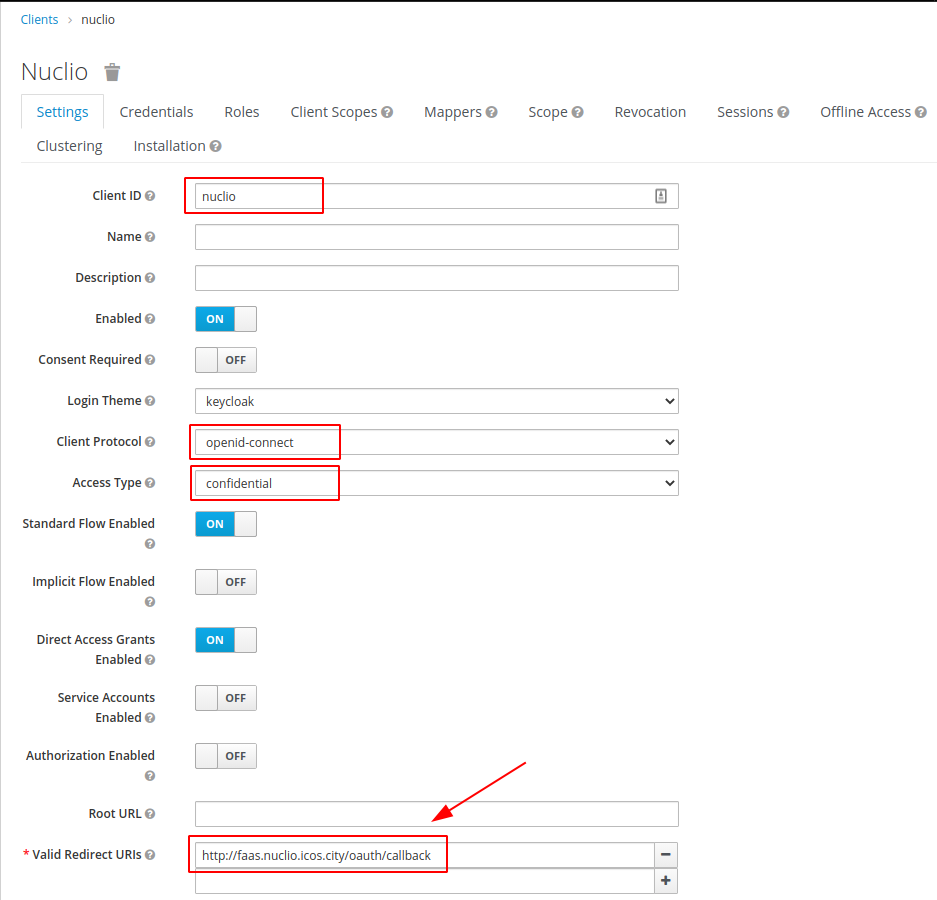
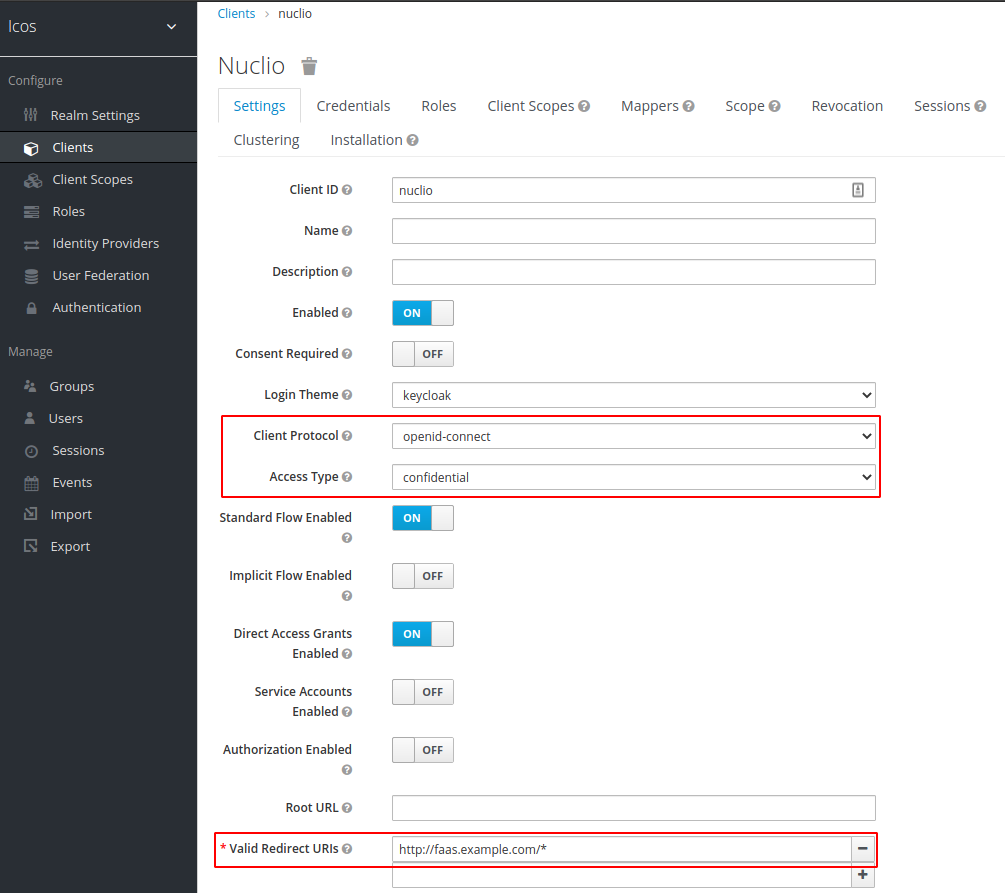
fix(post-devops): 更新通过gatekeeper设置nuclio认证和鉴权的博客。

diff --git a/source/_posts/devops/2021-01-25-Keycloak-配置gatekeeper保护没有认证授权的应用功能.md b/source/_posts/devops/2021-01-25-Keycloak-配置gatekeeper保护没有认证授权的应用功能.md
@@ -10,79 +10,130 @@ comments: true
 ---
 
 # 重要
-虽然gatekeeper停止开发，转向`oauth2proxy`。但由于`oauth2proxy`功能太弱。不适用此场景。继续选用gatekeeper配置。
+虽然louketo-proxy停止开发，转向`oauth2proxy`。但由于`oauth2proxy`功能太弱。不适用此场景。继续选用louketo-proxy实现。
 
 部署配置， 一共有三个组件（以nuclio举例）：
-1. keycloak:   提供oauth2的认证源。在此处配置client、redirect_url、scope等
-2. gatekeeper: 作为proxy，代理所有走向`nuclio`的流量。与keycloak集成，没有权限的请求将被proxy截断。
-3. nuclio:     没有登录、授权的应用（一种faas平台）。
+1. keycloak:    提供oauth2的认证源。在此处配置client、redirect_url、scope等
+2. louketo-proxy: 作为proxy，代理所有走向`nuclio`的流量。与keycloak集成，没有权限的请求将被`proxy`拦截。
+3. nuclio:        没有登录、授权的应用（一种faas平台）。
 
 # 环境说明
-keycloak: 
+keycloak:  10.0.2
 
-gatekeeper: 
+louketo-proxy: v2.3.0
 
 nuclio: 1.5.12
 
 # 安装
 
-> gatekeeper启动的ingress地址对用户开放，名字应为proxy后面服务的真实地址，如代理proxy服务，则需设置为`faas.icos.city`。
+> louketo-proxy启动的ingress地址对用户开放，名字应为proxy后面服务的真实地址，如代理proxy服务，则需设置为`faas.icos.city`。
 
-## 1. 配置gatekeeper
+## 1. 配置louketo-proxy
 
 - `client-id`: 配置为keycloak服务中创建的`client-name`
+
 - `client-secret`: 配置为keycloak服务中创建的`client`, 点击`credentials`获取。
+
 - `discovery-url`: 注意修改keycloak地址和realm名。`<keycloak-address>/auth/realms/<realm-name>`
-- `redirection-url`: 认证完成后，返回的访问地址，即`gate-keeper`的ingress地址。注意，不带'oauth/callback'
-- `upstream-url`: gatekeeper 后面的真实应用地址。
+
+- `redirection-url`: 认证完成后，返回的访问地址，即`louketo-proxy`的ingress地址。注意，不带`oauth/callback`。
+
+- `upstream-url`: louketo-proxy 后面的真实应用地址。
+
 - `enable-refresh-tokens`: 允许refresh-token刷新token。
-   > 用户访问应用，会重定向到Keycloak。 那里获得授权代码。 前端`gatekeeper`将此授权代码交换为`access token`、`refresh token`，
+  
+   > 用户访问应用，会重定向到Keycloak。 那里获得授权代码。 前端`louketo-proxy`将此授权代码交换为`access token`、`refresh token`，
    > 这些token放在前端的cookie中。 当使用过期的`access token`调用后端时，`refresh token`将被解密并用于获取新的`access token`。
    > `refresh token`可以过期或无效。 当返回401时，前端应刷新页面，以便将用户重定向到Keycloak。
    > 更安全的做法是将token存储在redis中, 而不是存储在前端Cookie中。
 
 - `skip-upstream-tls-verify`: 跳过证书校验
+
 - `skip-openid-provider-tls-verify`: 跳过证书校验
 
-> 仍存在以下问题： 1. role=admin未生效，认证通过的都能访问；
-gatekeeper启动命令如下：
-```bash
-/usr/local/bin/louketo-proxy  \
---client-id=nuclio \
---client-secret=0f52c6a6-ceb7-40cc-8a02-77909bf355c4 \
---discovery-url=https://sso.icos.city/auth/realms/icos \
---enable-default-deny=true \
---secure-cookie=false \
---encryption-key=AgXa7xRcoClDEU0ZDSH4X0XhL5Qy2Z2j \
---enable-json-logging=true \
---enable-logging=true \
---enable-request-id=true \
---enable-security-filter=true \
---http-only-cookie=false \
---enable-refresh-tokens=true \
---listen=0.0.0.0:8085 \
---preserve-host=true \
---enable-logging  \
---redirection-url=http://faas.icos.city \
---upstream-url=http://nuclio-dashboard:8070 \
---skip-openid-provider-tls-verify \
---skip-upstream-tls-verify \
---resources=uri=/*|methods=GET,POST,DELETE,PUT,HEAD|roles=nuclio:admin
+> proxy的chart  `value.yaml`如下：([proxy-chart文件](./images/charts/nuclio-proxy-1.0.0.tgz))
+
+```yaml
+#【----------------全局变量--------------------】
+global:
+  #  # 镜像仓库名称
+  imageRepositoryName: reg.chebai.org
+
+#【----------------镜像配置--------------------】
+# 镜像
+imageRepository: paas/louketo-proxy
+  #版本要求3位数,不写默认从.Chart.appVersion拿
+#imageTag: 5.6.10
+  # 拉取镜像策略
+imagePullPolicy: Always
+
+#容器启动命令和参数
+containersCommand: {}
+containersArgs: '[
+  "--client-id=<client-id>",
+  "--client-secret=<client-secret>",
+  "--discovery-url=<keycloak-address>/auth/realms/<realm-name>",
+  "--enable-default-deny=true",
+  "--secure-cookie=false",
+  "--encryption-key=AgXa7xRcoClDEU0ZDSH4X0XhL5Qy2Z2j",
+  "--enable-json-logging=true",
+  "--enable-logging=true",
+  "--enable-request-id=true",
+  "--enable-security-filter=true",
+  "--http-only-cookie=true",
+  "--listen=0.0.0.0:8080",
+  "--preserve-host=true",
+  "--enable-logging",
+  "--redirection-url=http://faas.example.com",
+  "--upstream-url=http://nuclio-dashboard:8070",
+  "--skip-openid-provider-tls-verify",
+  "--skip-upstream-tls-verify",
+  "--resources=uri=/*|methods=GET,POST,DELETE,PUT,HEAD|roles=nuclio:viewer"
+  ]'
+
+#【----------------服务配置--------------------】
+#是否启动服务
+serviceEnabled: true
+  # 服务映射端口类型ClusterIP、NodePort
+serviceType: NodePort
+  # 服务
+serviceName: nuclio-proxy
+servicePorts:
+# 容器内端口
+- port: 8080
+  protocol: "TCP"
+
+ingressEnabled: true
+ingressAnnotations:
+  kubernetes.io/ingress.class: nginx
+
+ingressAddns: false
+
+ingressHosts:
+- host: faas
+  domain: example.com
+  paths:
+  - path: /
+    servicePort: 8080
+
 ```
 
 ## 2. 配置keycloak
+
 1. 配置client
 
     <img src="images/post-image/gatekeeper-keycloakclient-config.png" width="60%">
 
 2. 配置Scope
+   
+    > 也可以直接通过Mappers配置audience,  ClientScope只是多封装了一层，好处是便于多个client共用。
     
     2.1 选择`icos`realm -- 点击`Client Scopes` -- 点击`Settings`
     
     - `name: ` 设置名字为`nuclio-service`
-    - `Protocol: ` 设置名字为`openid-connect`
+- `Protocol: ` 设置名字为`openid-connect`
     <img src="images/post-image/gatekeeper-ClientScope-1.png" width="60%">
-
+    
     2.2 在`Client Scope`页面 -- 点击`Mappers`
     
     - `name: ` 设置名字为`nuclio-audience`
@@ -96,10 +147,16 @@ gatekeeper启动命令如下：
     
     在`Available Client Scopes` 中选择刚创建的`nuclio-service` -- 点击`Add selected`
     
-    <img src="images/post-image/gatekeeper-ClientScope-3.png" width="60%">
-    
+
+<img src="images/post-image/gatekeeper-ClientScope-3.png" width="60%">
+
+   
 
 3. 创建用户
+
+并将
+
+
 
 ## 3. 部署nuclio
 
@@ -109,26 +166,33 @@ gatekeeper启动命令如下：
 # 使用
 
 # 遇到问题
-1. redirect_url: keycloak中需要设置为`http://<nuclio.acme.com>/oauth/callback`, 而gatekeeper启动时配置为`http://<nuclio.acme.com>/`。
-一直将keycloak中`redirect_url`设置缺少`oauth/callback`,导致出现以下报错（keycloak端报错）：
-```bash
-error redirect_url
-```
+1. `error redirect_url`报错： 
 
+  > keycloak-client配置`redirect_url` 缺少`oauth/callback`,导致出现报错（keycloak端报错）
+
+  - keycloak中需要设置为`http://<nuclio.acme.com>/oauth/callback`（也可以直接使用通配符，配置为`http://<nuclio.acme.com>/*`）
+  - louketo-proxy启动时配置为`http://<nuclio.acme.com>/`。
 2. 登录成功，但由于未配置`audience`字段aud，claim中的字段无法对应
-导致如下报错(gatekeeper 端报错)
+导致如下报错(louketo-proxy 端报错)
 ```bash
  'aud' claim and 'client_id' do not match
 ```
 
-3. keycloak服务端，注销session，对gatekeeper无效。过期时间在生成accessToken时被服务端根据配置生成（服务端默认5分钟过期），并保存在cookie中。
-在无refreshToken干预的条件下，只有等过期时间（默认5分钟）结束才会过期，返回keycloak登录页面。
+3. 使用镜像supervisor启动，导致针对role的鉴权一直失败。
 
-4. nuclio会在请求header中`x-nuclio-project-namespace: <namespace: eg. nuclio>`,来区分不同命名空间下的function, 后期可以结合`User Group`，
-来进行租户划分和授权管理。
+  换成`reg.chebai.org/paas/louketo-proxy:v1.0.0`之后一切正常。
+
+4. keycloak服务端，注销session，需要重新无痕模式打开新的窗口生效。
+
+  过期时间在生成accessToken时被服务端根据配置生成（服务端默认5分钟过期），并保存在cookie中。
+  在无refreshToken干预的条件下，只有等过期时间（默认5分钟）结束才会过期，返回keycloak登录页面。
+
+5. nuclio会在请求header中`x-nuclio-project-namespace: <namespace: eg. nuclio>`,来区分不同命名空间下的function, 后期可以结合`User Group`，来进行租户划分和授权管理。
+
+  
 
 # 后续
-nuclio使用gatekeeper进行鉴权，多租户管理。
+nuclio使用`louketo-proxy`进行鉴权，多租户管理。
 
 # Reference
 
@@ -140,5 +204,7 @@ nuclio使用gatekeeper进行鉴权，多租户管理。
 
 [Keycloak 文档 - Audience support](https://github.com/keycloak/keycloak-documentation/blob/master/server_admin/topics/clients/oidc/audience.adoc)
 
-# 参考，理解类似gatekeepr、oauth2proxy这类工具的实现
+参考，理解类似gatekeepr、oauth2proxy这类工具的实现
+
 [Open Policy Agent 文档](https://www.openpolicyagent.org/docs/latest/)
+
